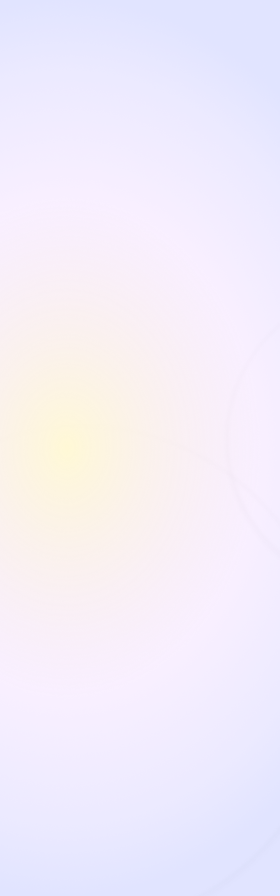
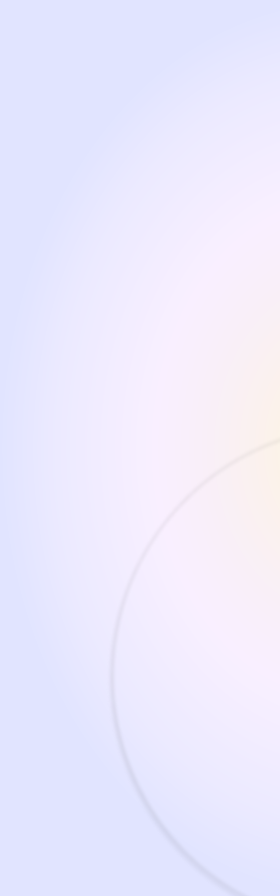
nuevos modelos

diff --git a/views/dashboard.js b/views/dashboard.js
@@ -1,6 +1,6 @@
 import { List, Divider, ListItem } from '@ui-kitten/components';
 import { useEffect, useLayoutEffect } from 'react';
-import { View, Text, Button, TouchableOpacity, Image, ImageBackground, TouchableWithoutFeedback } from 'react-native';
+import { View, Text, Button, TouchableOpacity, Image, ImageBackground, TouchableWithoutFeedback, ScrollView } from 'react-native';
 import { SafeAreaView } from 'react-native-safe-area-context';
 import { useDispatch, useSelector } from 'react-redux';
 import ActionConstants from '../redux/reduxConstants';
@@ -20,7 +20,7 @@ export default function Dashboard() {
 
     // contextos
     const usuariosContext = useSelector(store => store.usuarios);
-    debugger;
+    
     // test data
     const data = new Array(8).fill({
         taskName: "Recoger basura",
@@ -101,12 +101,19 @@ export default function Dashboard() {
                     </TouchableOpacity>
                 </View>
                 <Text style={{ fontSize: 22, marginBottom: 20, marginLeft: 10, color: "#444444", fontFamily: "PoppinsBold", letterSpacing: -0.33333, fontWeight: "700" }}>BIENVENIDO, {usuariosContext.usuario.name}</Text>
-                <InsetShadow shadowColor="#000000" shadowOpacity={0.5} shadowOffset={4} shadowRadius={4} containerStyle={{ backgroundColor: "rgba(255, 255, 255, 0.4)", borderWidth: 1, borderColor: "#FFFFFF", height: 250, marginLeft: 30, marginRight: 30, borderRadius: 10, padding: 0 }}>
+                <InsetShadow shadowColor="#000000" shadowOpacity={0.5} shadowOffset={4} shadowRadius={4} containerStyle={{ marginBottom: 30, backgroundColor: "rgba(255, 255, 255, 0.4)", borderWidth: 1, borderColor: "#FFFFFF", height: 250, marginLeft: 30, marginRight: 30, borderRadius: 10, padding: 0 }}>
                     <View style={{ marginLeft: 20 }}>
                         <Text style={{ color: "#FFFFFF", textShadowColor: "rgba(0, 0, 0, 0.1)", textShadowRadius: 4, textShadowOffset: { height: 4, width: 0 }, fontSize: 22, fontFamily: "PoppinsBold", lineHeight: 33, fontWeight: "700", marginLeft: 5, marginTop: 10 }}>MIS TAREAS</Text>
                         <List style={{ backgroundColor: "transparent", paddingHorizontal: 10, paddingVertical: 5, height: "100%" }} data={usuariosContext.usuario.assigned_Tasks} renderItem={renderItem} />
                     </View>
                 </InsetShadow>
+                <InsetShadow shadowColor="#000000" shadowOpacity={0.5} shadowOffset={4} shadowRadius={4} containerStyle={{ backgroundColor: "rgba(255, 255, 255, 0.4)", borderWidth: 1, borderColor: "#FFFFFF", height: 250, marginLeft: 30, marginRight: 30, borderRadius: 10, padding: 0 }}>
+                    <View style={{ marginLeft: 20 }}>
+                        <Text style={{ color: "#FFFFFF", textShadowColor: "rgba(0, 0, 0, 0.1)", textShadowRadius: 4, textShadowOffset: { height: 4, width: 0 }, fontSize: 22, fontFamily: "PoppinsBold", lineHeight: 33, fontWeight: "700", marginLeft: 5, marginTop: 10 }} numberOfLines={1}>TAREAS DEL PISO - PEDRO PABLO</Text>
+                        <List style={{ backgroundColor: "transparent", paddingHorizontal: 10, paddingVertical: 5, height: "100%" }} data={usuariosContext.usuario.assigned_Tasks} renderItem={renderItem} />
+                    </View>
+                </InsetShadow>
+
             </SafeAreaView>
         </ImageBackground>
     );

diff --git a/views/main.js b/views/main.js
@@ -115,7 +115,7 @@ function MainTabs() {
 
 function Drawer() {
     return (
-        <ImageBackground source={require("../assets/images/bgDrawer.png")} style={{ flex: 1, padding: 10 }}>
+        <ImageBackground resizeMethod='resize' resizeMode='contain' source={require("../assets/images/bgDrawer.png")} style={{ flex: 1, padding: 10 }}>
             <SafeAreaView>
                 <View>
                     <TouchableOpacity activeOpacity={0.8}>

diff --git a/models/integrantes_pisos.js b/models/integrantes_pisos.js
@@ -1,0 +1,9 @@
+class Integrantes_Pisos {
+    constructor(id, piso_id, user_id, join_date, assigner_id) {
+        this.id = id;
+        this.piso_id = piso_id;
+        this._user_id = user_id;
+        this.join_date = join_date;
+        this.assigner_id = assigner_id;
+    }
+}

diff --git a/models/piso.js b/models/piso.js
@@ -1,0 +1,6 @@
+class Piso {
+    constructor(id, name) {
+        this.id = id;
+        this.name = name;
+    }
+}
